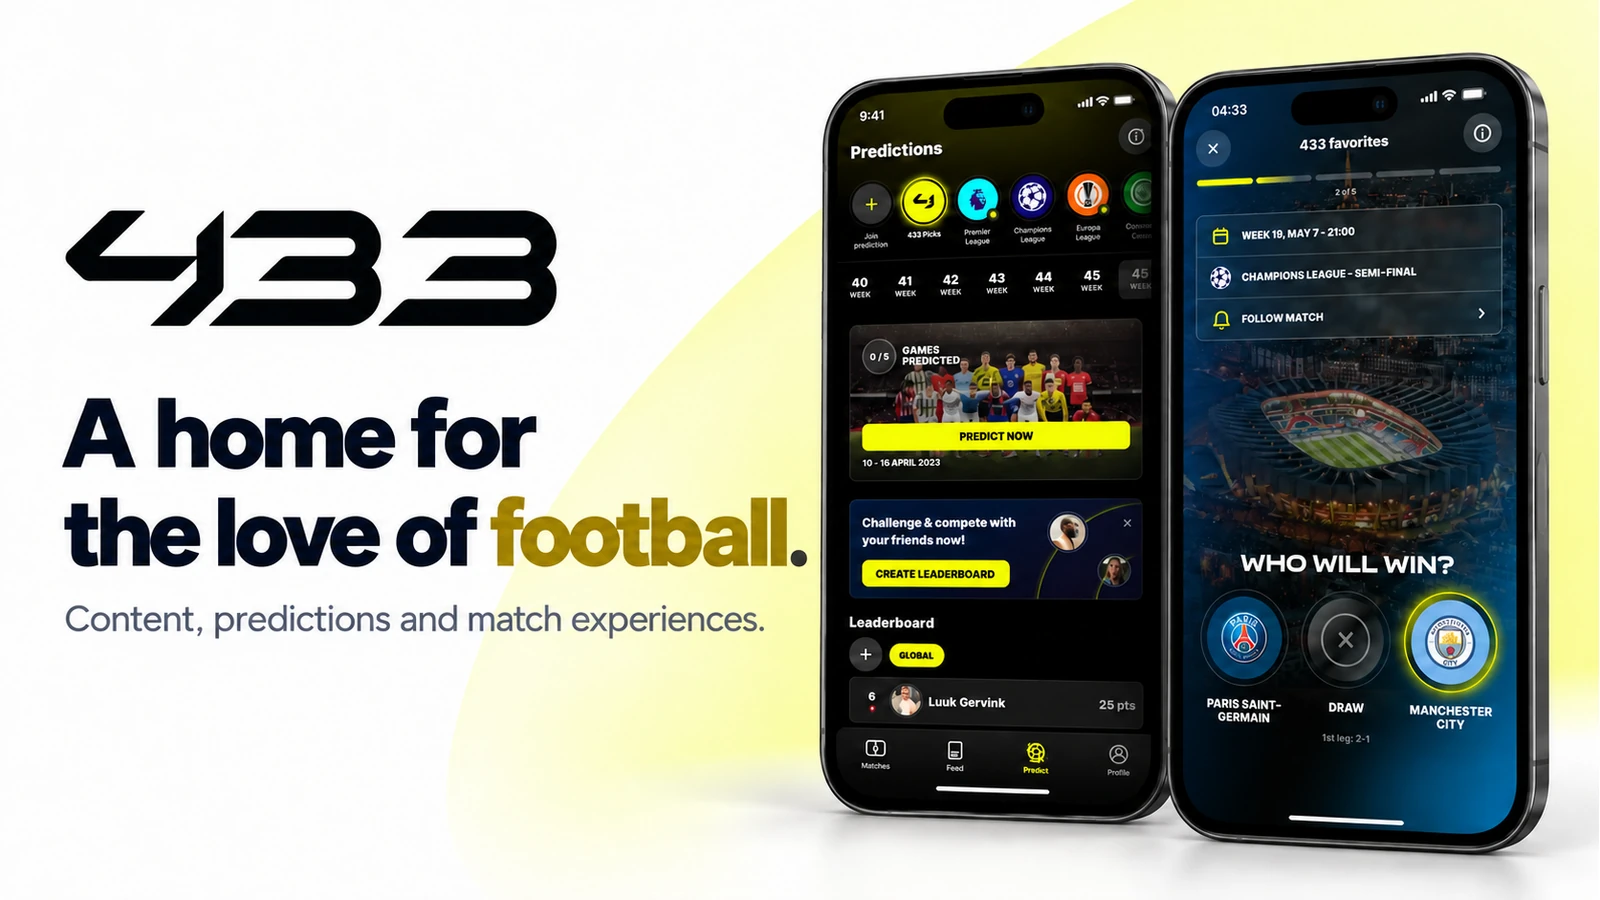
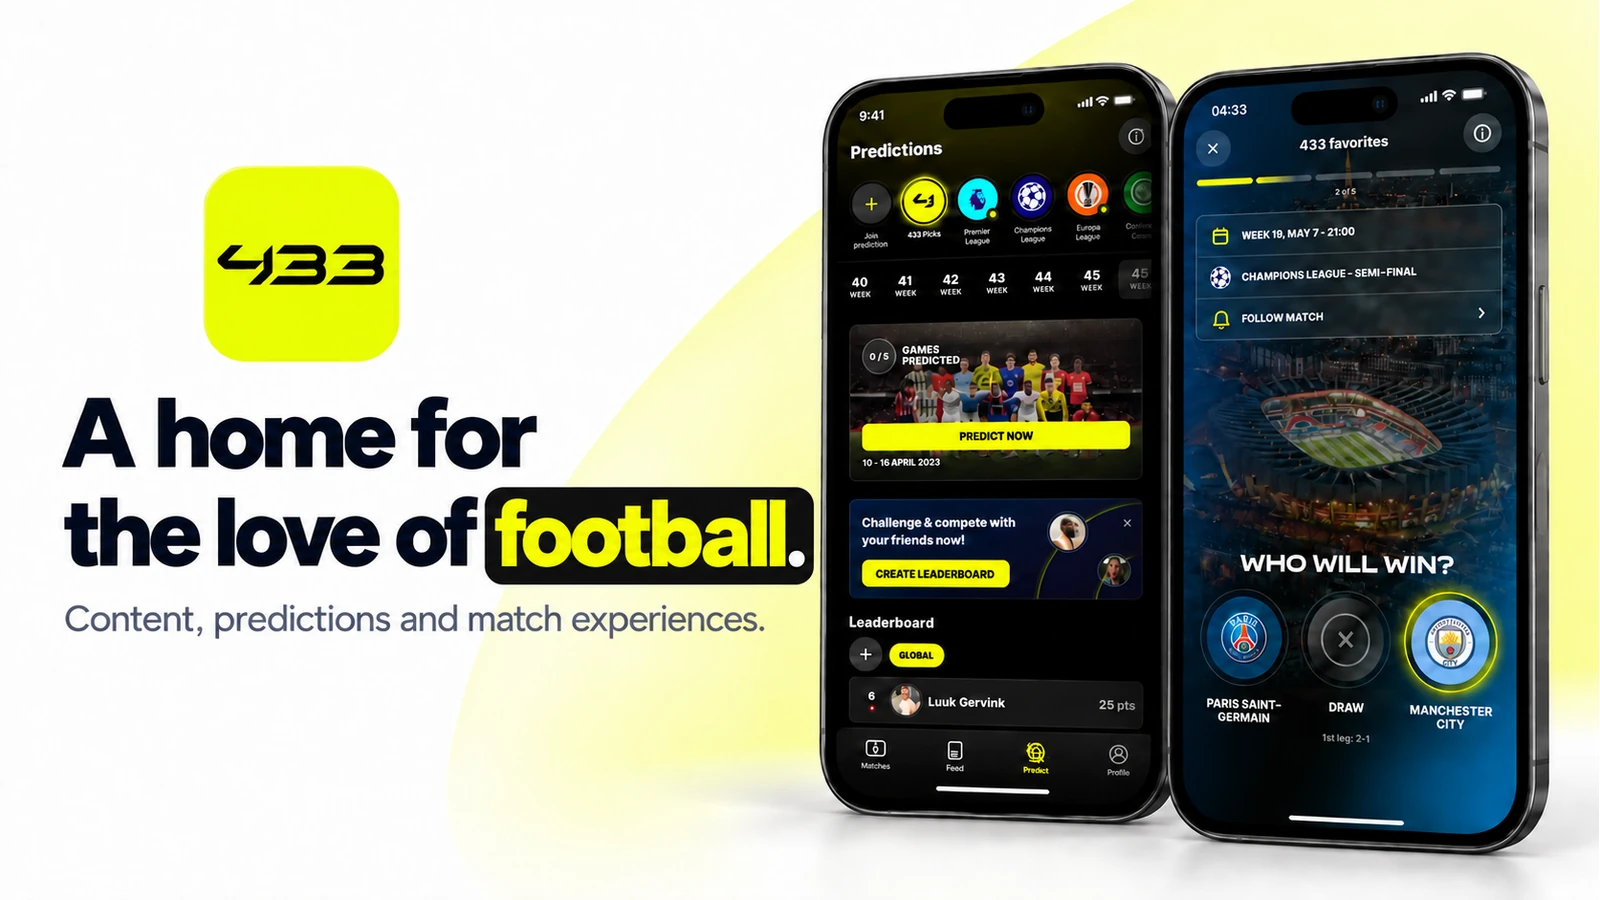
Include earlier work in project filters and correct app branding (#16)

diff --git a/src/data/projects.ts b/src/data/projects.ts
@@ -396,6 +396,7 @@ export const projects = activeFirst<Project>([
 
 interface EarlierProject {
   name: string;
+  category: Project['category'];
   status: ProjectStatus;
   tags: string;
   image: ImageMetadata;
@@ -406,6 +407,7 @@ interface EarlierProject {
 export const earlierWork = activeFirst<EarlierProject>([
   {
     name: 'Indiscutido',
+    category: 'client',
     status: 'discontinued',
     tags: 'Flutter · Supabase',
     image: indiscutido,
@@ -422,6 +424,7 @@ export const earlierWork = activeFirst<EarlierProject>([
   },
   {
     name: 'GYMERZ',
+    category: 'client',
     status: 'active',
     tags: 'Flutter · .NET',
     image: gymerz,
@@ -438,6 +441,7 @@ export const earlierWork = activeFirst<EarlierProject>([
   },
   {
     name: 'PennyFlow',
+    category: 'own',
     status: 'discontinued',
     tags: 'SwiftUI · CoreData',
     image: pennyflow,
@@ -454,6 +458,7 @@ export const earlierWork = activeFirst<EarlierProject>([
   },
   {
     name: 'iSophro',
+    category: 'client',
     status: 'active',
     tags: 'Flutter · Firebase',
     image: isophro,
@@ -470,6 +475,7 @@ export const earlierWork = activeFirst<EarlierProject>([
   },
   {
     name: 'Barid Purchase',
+    category: 'client',
     status: 'discontinued',
     tags: 'Flutter · Laravel',
     image: baridPurchase,

diff --git a/docs/SOURCES.md b/docs/SOURCES.md
@@ -96,3 +96,9 @@ The organized library is delivered in `Desktop/AppWrapp Resources`: `Personal We
 ### Project availability
 
 Amine confirmed that Indiscutido, PennyFlow, and Barid Purchase were discontinued by their owners, while all other listed projects are active and available online. These are owner-supplied status declarations, not an independent availability audit. A shared status component provides English, French, and Spanish labels on project cards, detail pages, and earlier-work entries. Stable status sorting keeps discontinued entries after active entries in each collection, preserving the requested order among active projects. The three discontinued projects are the final entries on the portfolio list.
+
+### Project ownership and exact brand references
+
+Amine confirmed that GYMERZ, iSophro, Indiscutido, and Barid Purchase are earlier client work. PennyFlow is his own discontinued SwiftUI product. The filters now include both featured projects and earlier work: six client projects, five personal products, eleven in total. Availability and ownership are separate fields, so discontinued work remains discoverable in its category and follows active work. The classification, counts, and labels apply in English, French, and Spanish.
+
+Amine supplied the official square 433 app logo and exact brand references `#f1ff00` for 433 and `#ffba1d` for Receipto. Both website and Upwork artwork were corrected with the built-in image-generation tool. The 433 headline accent uses a dark backing for readability. The revised Receipto website master is shared with AppWrapp. The original supplied logo, correction prompts, PNG masters, and previous exports are preserved in the organized resource library. Raster artwork retains its photographic shading and antialiasing; the source brand values are recorded separately.
